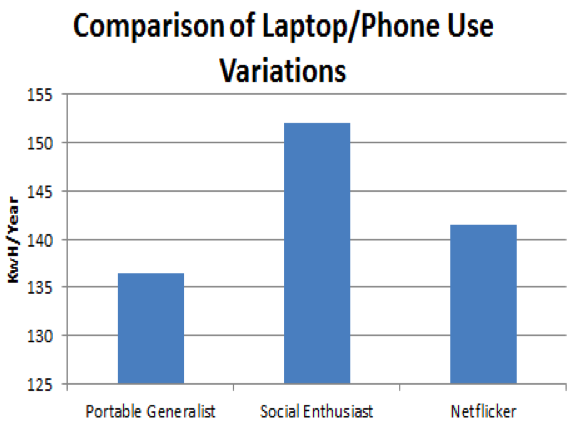
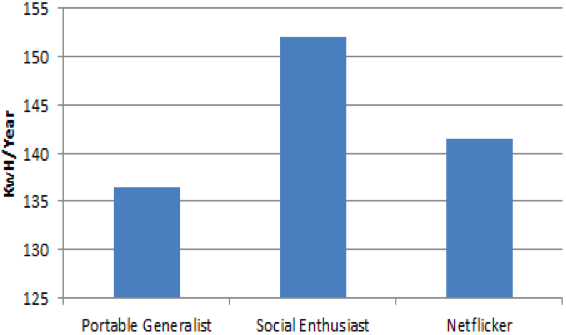
Crop the label out of Fig8: The caption in the text is sufficient

Changed region(s): [[0.0, 0.0, 1.0, 1.0], [0.3004, 0.7761, 0.5106, 0.806], [0.3004, 0.7164, 0.5106, 0.7463]]

diff --git a/gsict2015.tex b/gsict2015.tex
@@ -878,7 +878,8 @@ the environmental impact of given device uses.
 \begin{figure}[!ht]
 \centering
 \includegraphics[width=0.9\columnwidth]{images/comparison_users_devices.png}
-\caption{Comparison of different users and their devices}
+\caption{Comparison of notebook/phone use}
+%\caption{Comparison of different users and their devices}
 \label{fig:comparison_users_devices.png} 
 \end{figure}
 
